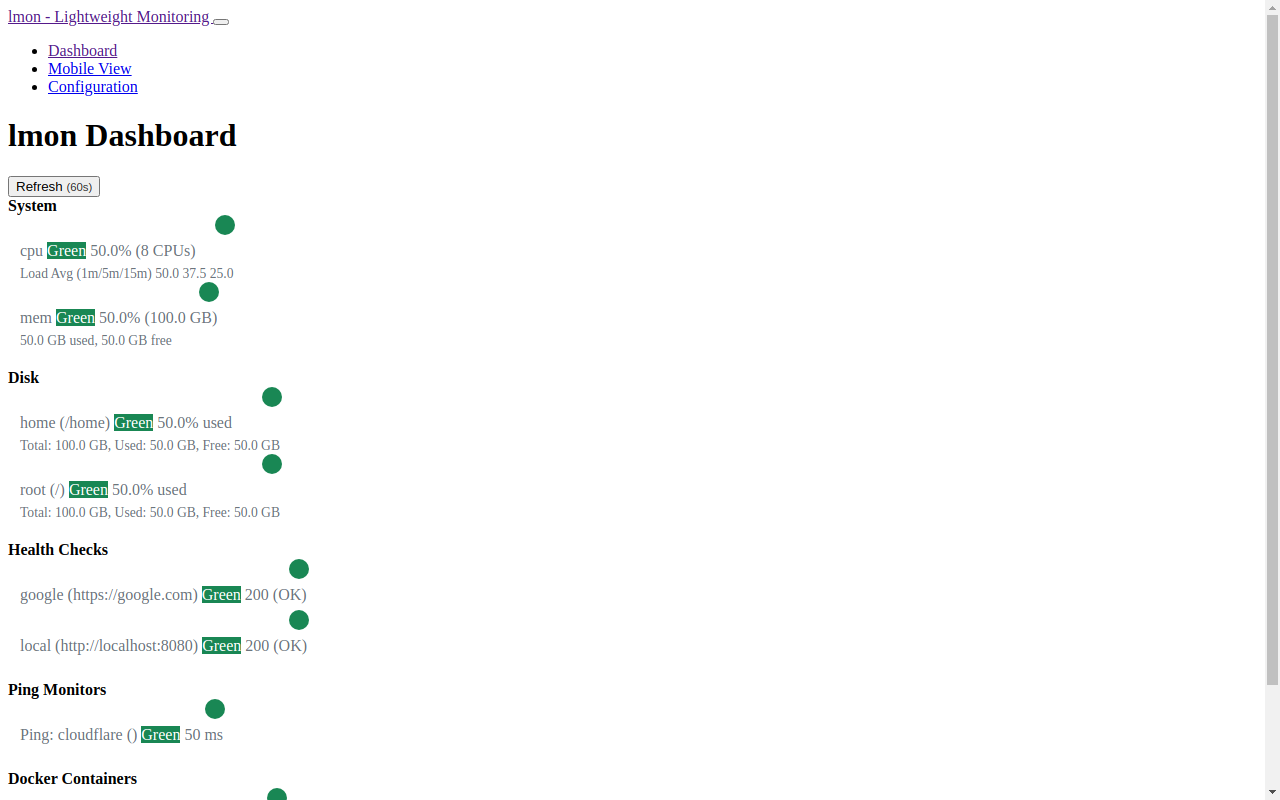
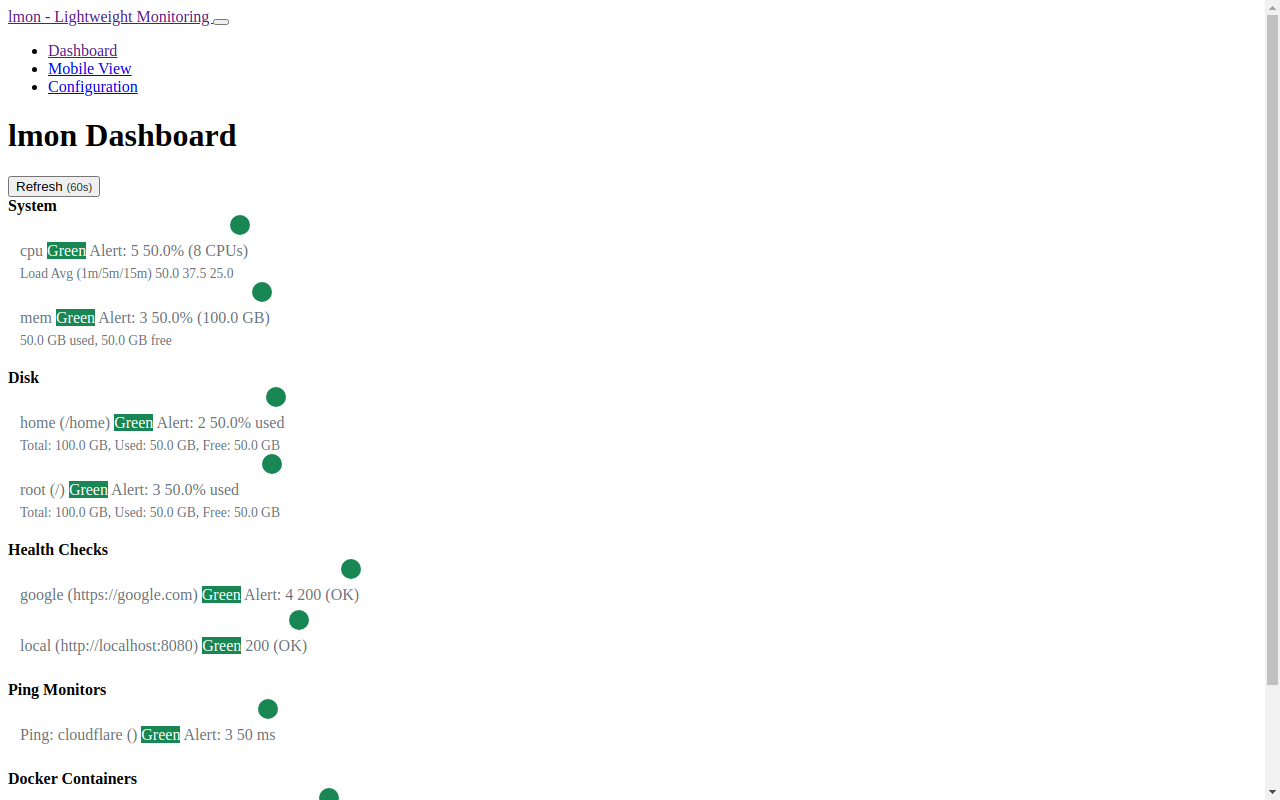
Show alert threshold in list views (dashboard, mobile, configuration) (#48)
* Initial plan

* Add alert threshold display to UIResult and list views

* Update screenshot config to show alert thresholds in test data

* Show alert threshold in list views (dashboard, mobile, configuration)

---------

diff --git a/web/templates/config-health-list.html b/web/templates/config-health-list.html
@@ -234,6 +234,11 @@
                 <span class="me-2 config-item-timeout"
                     >Timeout: {{ $health.Timeout }}s</span
                 >
+                {{ if gt $health.AlertThreshold 1 }}
+                <span class="me-2 config-item-alert"
+                    >Alert: {{ $health.AlertThreshold }}</span
+                >
+                {{ end }}
                 {{ if $health.RestartContainers }}
                 <span class="me-2 config-item-containers"
                     >Restart: <code>{{ $health.RestartContainers }}</code></span
@@ -276,6 +281,11 @@
                 <span class="me-2 config-item-threshold"
                     >Amber: {{ $ping.AmberThreshold }}ms</span
                 >
+                {{ if gt $ping.AlertThreshold 1 }}
+                <span class="me-2 config-item-alert"
+                    >Alert: {{ $ping.AlertThreshold }}</span
+                >
+                {{ end }}
                 <button
                     type="button"
                     class="delete-ping-btn ms-auto p-0 btn btn-link"

diff --git a/web/templates/item_list.html b/web/templates/item_list.html
@@ -38,6 +38,14 @@
                         >Failures: {{ .FailureCount }}</span
                     >
                     {{ end }}
+                    {{ if gt .AlertThreshold 1 }}
+                    <span
+                        class="badge bg-info text-dark"
+                        aria-label="Alert threshold"
+                        title="Alert after this many consecutive failures"
+                        >Alert: {{ .AlertThreshold }}</span
+                    >
+                    {{ end }}
                     <span class="ms-2" aria-label="Value">{{ .Value }}</span>
                 </div>
                 <div class="item-detail2">

diff --git a/web/templates/mobile_item_list.html b/web/templates/mobile_item_list.html
@@ -32,6 +32,14 @@
             >{{ $item.FailureCount }} failures</span
         >
         {{ end }}
+        {{ if gt $item.AlertThreshold 1 }}
+        <span
+            class="badge bg-info text-dark ms-1"
+            aria-label="Alert threshold"
+            title="Alert after this many consecutive failures"
+            >Alert: {{ $item.AlertThreshold }}</span
+        >
+        {{ end }}
         <span class="mobile-detail" aria-label="Detail: {{ $item.Value }}"
             >{{ $item.Value }}</span
         >

diff --git a/web/templates/config-docker-list.html b/web/templates/config-docker-list.html
@@ -114,6 +114,9 @@
                     >({{ $docker.Containers }})</span
                 >
                 <span class="me-2">Threshold: {{ $docker.Threshold }}</span>
+                {{ if gt $docker.AlertThreshold 1 }}
+                <span class="me-2">Alert: {{ $docker.AlertThreshold }}</span>
+                {{ end }}
                 <button
                     type="button"
                     class="delete-docker-btn ms-auto p-0 btn btn-link"

diff --git a/web/templates/config-disk-list.html b/web/templates/config-disk-list.html
@@ -106,6 +106,9 @@
                     >(<code>{{ $disk.Path }}</code>)</span
                 >
                 <span class="me-2">Threshold: {{ $disk.Threshold }}%</span>
+                {{ if gt $disk.AlertThreshold 1 }}
+                <span class="me-2">Alert: {{ $disk.AlertThreshold }}</span>
+                {{ end }}
                 <button
                     type="button"
                     class="delete-disk-btn ms-auto p-0 btn btn-link"

diff --git a/web/uiresult.go b/web/uiresult.go
@@ -4,6 +4,7 @@ import (
 	"lmon/config"
 	"lmon/monitors"
 	"lmon/monitors/disk"
+	"lmon/monitors/docker"
 	"lmon/monitors/healthcheck"
 	"lmon/monitors/ping"
 	"lmon/monitors/system"
@@ -19,6 +20,7 @@ type UIResult struct {
 	TypeLabel            string       // Type of the monitor (e.g., disk, healthcheck)
 	DisplayName          string       // Display Name for UI
 	Threshold            int          // Threshold for the monitor, if applicable
+	AlertThreshold       int          // Number of consecutive failures before triggering alert
 	FailureCount         int          // Current consecutive failure count
 	EvenRow              bool         // Flag to indicate if the row is even for styling purposes
 	StatusClass          string       // CSS class for the status, used for styling in the UI
@@ -29,6 +31,7 @@ type UIResult struct {
 func newUIResult(id string, item monitors.Result, c *config.Config, failureCount int) UIResult {
 	icon := "folder" // default icon if no specific icon is found
 	threshold := 0   // default threshold if not set
+	alertThreshold := 1 // default alert threshold
 	typeLabel := ""
 	hasRestartContainers := false
 	switch item.Group {
@@ -39,6 +42,10 @@ func newUIResult(id string, item monitors.Result, c *config.Config, failureCount
 			if item.Group+"_"+k == id {
 				icon = d.Icon
 				threshold = d.Threshold
+				alertThreshold = d.AlertThreshold
+				if alertThreshold <= 0 {
+					alertThreshold = 1
+				}
 				break
 			}
 		}
@@ -49,6 +56,10 @@ func newUIResult(id string, item monitors.Result, c *config.Config, failureCount
 			if item.Group+"_"+k == id {
 				icon = h.Icon
 				hasRestartContainers = h.RestartContainers != ""
+				alertThreshold = h.AlertThreshold
+				if alertThreshold <= 0 {
+					alertThreshold = 1
+				}
 				break
 			}
 		}
@@ -59,6 +70,10 @@ func newUIResult(id string, item monitors.Result, c *config.Config, failureCount
 			if item.Group+"_"+k == id {
 				icon = p.Icon
 				threshold = p.AmberThreshold
+				alertThreshold = p.AlertThreshold
+				if alertThreshold <= 0 {
+					alertThreshold = 1
+				}
 				break
 			}
 		}
@@ -68,9 +83,31 @@ func newUIResult(id string, item monitors.Result, c *config.Config, failureCount
 		case system.CPUDisplayName:
 			icon = c.Monitoring.System.CPU.Icon
 			threshold = c.Monitoring.System.CPU.Threshold
+			alertThreshold = c.Monitoring.System.CPU.AlertThreshold
+			if alertThreshold <= 0 {
+				alertThreshold = 1
+			}
 		case system.MemDisplayName:
 			icon = c.Monitoring.System.Memory.Icon
 			threshold = c.Monitoring.System.Memory.Threshold
+			alertThreshold = c.Monitoring.System.Memory.AlertThreshold
+			if alertThreshold <= 0 {
+				alertThreshold = 1
+			}
+		}
+	case docker.Group:
+		typeLabel = "Docker"
+		icon = docker.Icon // fallback to the default docker icon
+		for k, d := range c.Monitoring.Docker {
+			if item.Group+"_"+k == id {
+				icon = d.Icon
+				threshold = d.Threshold
+				alertThreshold = d.AlertThreshold
+				if alertThreshold <= 0 {
+					alertThreshold = 1
+				}
+				break
+			}
 		}
 	default:
 		// fallback to a generic icon if no specific icon is found
@@ -99,6 +136,7 @@ func newUIResult(id string, item monitors.Result, c *config.Config, failureCount
 		Group:                item.Group,
 		DisplayName:          item.DisplayName,
 		Threshold:            threshold,
+		AlertThreshold:       alertThreshold,
 		FailureCount:         failureCount,
 		TypeLabel:            typeLabel,
 		StatusClass:          statusClass,
